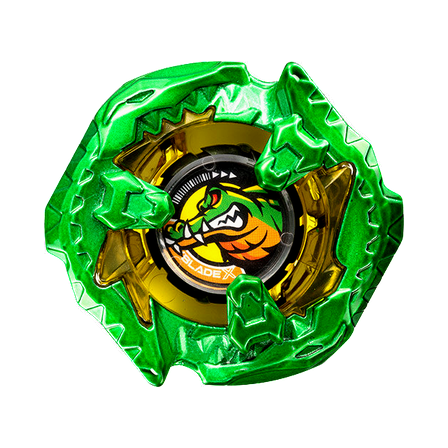
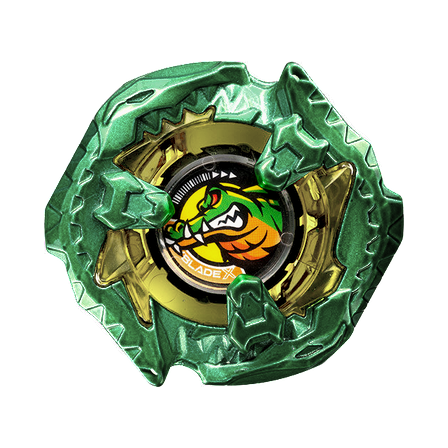
Match Croco Crunch front colors

diff --git a/index.html b/index.html
@@ -484,14 +484,14 @@
         "#app/services": "./src/app-services.js?v=20260714-scroll-affordance-overlay",
         "#app/markup-core": "./src/markup-core.js?v=20260714-scroll-affordance-overlay",
         "#app/anime-core": "./src/anime-core.js?v=20260720-burst-airdate-notes",
-        "#app/data-store": "./src/data-store.js?v=20260812-x-croco-crunch-front",
+        "#app/data-store": "./src/data-store.js?v=20260812-x-croco-crunch-color-match",
         "#app/search-data-decoder": "./src/search-data-decoder.js?v=20260720-burst-airdate-notes",
         "#app/ui-core": "./src/ui-core.js?v=20260731-mobile-highlight-fix",
         "#app/release-core": "./src/release-core.js?v=20260731-mobile-highlight-fix",
         "#app/scroll-affordance": "./src/scroll-affordance.js?v=20260719-dropdown-shadow-mounted-label",
         "#app/search-core": "./src/search-core.js?v=20260717-dead-code-cleanup",
         "#app/search-engine": "./src/search-engine.js?v=20260731-mobile-highlight-fix",
-        "#app/catalog-model": "./src/catalog-model.js?v=20260812-x-croco-crunch-front",
+        "#app/catalog-model": "./src/catalog-model.js?v=20260812-x-croco-crunch-color-match",
         "#app/collection-view": "./src/collection-view.js?v=20260731-mobile-highlight-fix",
         "#app/catalog-view": "./src/catalog-view.js?v=20260717-dead-code-cleanup",
         "#app/route-parser": "./src/route-parser.js?v=20260714-scroll-affordance-overlay",
@@ -500,7 +500,7 @@
         "#app/search-controller": "./src/search-controller.js?v=20260714-scroll-affordance-overlay",
         "#app/search-help-controller": "./src/search-help-controller.js?v=20260717-dead-code-cleanup",
         "#app/detail-view": "./src/detail-view.js?v=20260803-modal-tag-wheel-edge",
-        "#app/image-preview": "./src/image-preview.js?v=20260812-x-croco-crunch-front",
+        "#app/image-preview": "./src/image-preview.js?v=20260812-x-croco-crunch-color-match",
         "#app/modal-context": "./src/modal-context.js?v=20260714-scroll-affordance-overlay",
         "#app/style-loader": "./src/style-loader.js?v=20260804-mobile-modal-scrollbar-centering",
         "#app/feature-loaders": "./src/feature-loaders.js?v=20260717-dead-code-cleanup",

diff --git a/src/data-store.js b/src/data-store.js
@@ -8,7 +8,7 @@ const bookItems = [];
 const gameItems = [];
 const animeInfo = { title: "", overview: [], characters: [], episodes: [] };
 const searchIndexItems = [];
-const X_ASSET_CACHE_VERSION = "20260812-x-croco-crunch-front";
+const X_ASSET_CACHE_VERSION = "20260812-x-croco-crunch-color-match";
 
 const versionAssetUrl = source => {
   const value = String(source || "");

diff --git a/scripts/normalize-x-bey-front-images.py b/scripts/normalize-x-bey-front-images.py
@@ -16,7 +16,7 @@ from PIL import Image
 
 CONFIG_PATH = Path("data/source/x-bey-primary-images.json")
 ANGLE_CONFIG_PATH = Path("data/source/x-bey-angle-corrections.json")
-CONFIG_VERSION = "20260812-x-croco-crunch-front"
+CONFIG_VERSION = "20260812-x-croco-crunch-color-match"
 CANVAS_SIZE = 448
 TARGET_FOREGROUND_SIZE = 360
 ALPHA_THRESHOLD = 3

diff --git a/scripts/record-x-image-alpha-review.py b/scripts/record-x-image-alpha-review.py
@@ -14,7 +14,7 @@ from PIL import Image
 CANVAS_SIZE = 448
 MIN_MARGIN = 6
 MAX_FOREGROUND_SIZE = CANVAS_SIZE - MIN_MARGIN * 2
-REVIEW_VERSION = "20260812-x-croco-crunch-front"
+REVIEW_VERSION = "20260812-x-croco-crunch-color-match"
 
 
 def parse_args() -> argparse.Namespace:

diff --git a/scripts/build-x-bey-angle-corrections.py b/scripts/build-x-bey-angle-corrections.py
@@ -115,7 +115,7 @@ SUPPLIED_FRONT_IDS = {
     "BEY-X-UX-19-BULLET-GRIFFON-H",
     "BEY-X-UX-20-GLORY-VALKYRIE-LF",
 }
-CONFIG_VERSION = "20260812-x-croco-crunch-front"
+CONFIG_VERSION = "20260812-x-croco-crunch-color-match"
 
 
 def parse_args() -> argparse.Namespace:
